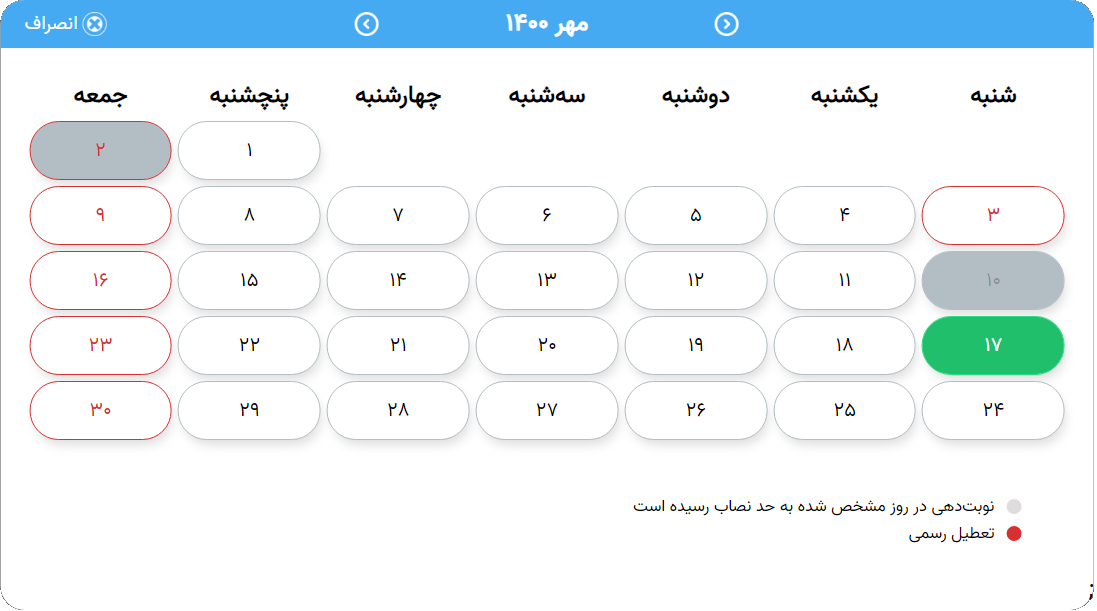
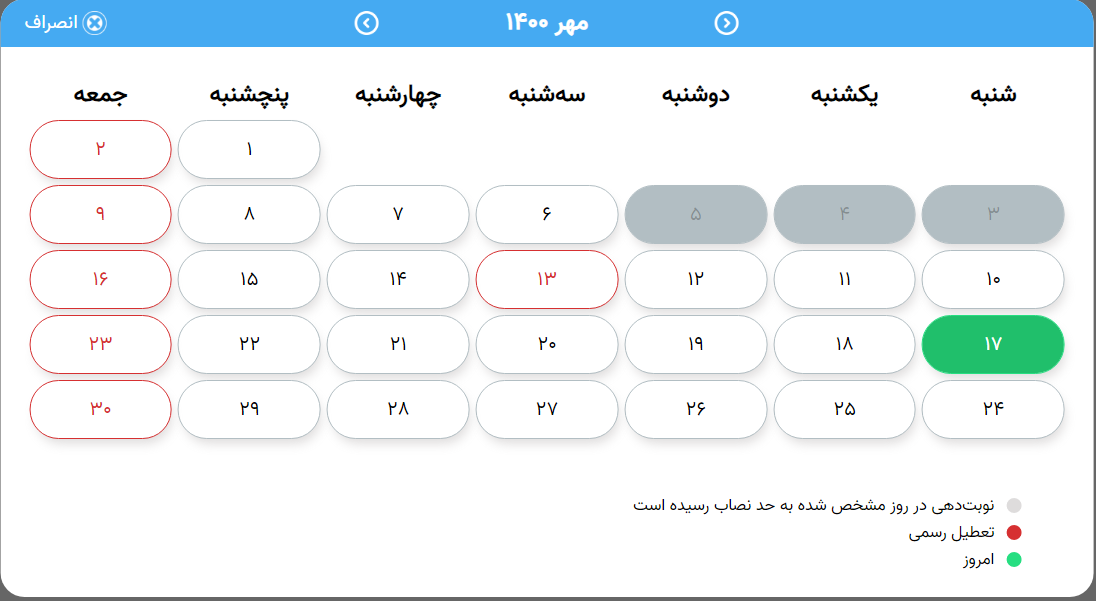
add help text to props

diff --git a/src/index.js b/src/index.js
@@ -9,12 +9,15 @@ export default function SchedulingPicker({
   startTime = { hour: 8, minute: 0 },
   endTime = { hour: 16, minute: 0 },
   visitMinutes = 20,
-  exceptDay = [],
-  exceptTime = [],
+  exceptDays = [],
+  exceptTimes = [],
   onChange,
   show = true,
   setShow,
   holidays = [],
+  redHelp = 'تعطیل رسمی',
+  grayHelp = 'نوبتدهی در روز مشخص شده به حد نصاب رسیده است',
+  greenHelp = 'امروز'
 }) {
   moment.locale('fa')
   moment.loadPersian()
@@ -59,22 +62,17 @@ export default function SchedulingPicker({
       setShowTimePicker(true)
     }
   }, [selectedDate])
-  console.log(selectedDate?.jDate())
-  console.log(now.date?.jDate(), 'now')
 
   function checkExceptTime(time) {
     return (
-      exceptTime.filter(
+      exceptTimes.filter(
         (item) => item.hour === time.hour && item.minute === time.minute
       ).length > 0
     )
   }
 
   return (
-    <div
-      className={`${styles.modal} ${show ? styles.block : styles.hide}`}
-      dir='rtl'
-    >
+    <div className={`${styles.modal} ${show ? styles.block : styles.hide}`}>
       <section className={styles.modalMain}>
         <div
           className={`${styles.page} ${showDatePicker ? styles.show : null}`}
@@ -141,12 +139,25 @@ export default function SchedulingPicker({
                                   m.jDate(now.date.jDate())
                                   setSelectedDate(m)
                                 }}
-                                disabled={exceptDay.includes(day)}
+                                disabled={exceptDays.includes(day)}
                                 className={`${styles.btn} ${styles.btnDate} ${
                                   indexDay === 6 || holidays.includes(day)
                                     ? styles.holiday
                                     : ''
-                                } ${(now.date.jYear()+'-'+now.date.jMonth()+'-'+day) ===(today.jYear()+'-'+today.jMonth()+'-'+today.jDate()) ? styles.btnSuccess :''}`}
+                                } ${
+                                  now.date.jYear() +
+                                    '-' +
+                                    now.date.jMonth() +
+                                    '-' +
+                                    day ===
+                                  today.jYear() +
+                                    '-' +
+                                    today.jMonth() +
+                                    '-' +
+                                    today.jDate()
+                                    ? styles.btnSuccess
+                                    : ''
+                                }`}
                               >
                                 {day}
                               </button>
@@ -163,11 +174,15 @@ export default function SchedulingPicker({
           <div className={styles.helpBox}>
             <div className={styles.helpText}>
               <div className={`${styles.circle} ${styles.circleExcept}`} />
-              <p>نوبتدهی در روز مشخص شده به حد نصاب رسیده است</p>
+              <p>{grayHelp}</p>
             </div>
             <div className={styles.helpText}>
               <div className={`${styles.circle} ${styles.circleHoliday}`} />
-              <p>تعطیل رسمی</p>
+              <p>{redHelp}</p>
+            </div>
+            <div className={styles.helpText}>
+              <div className={`${styles.circle} ${styles.circleToday}`} />
+              <p>{greenHelp}</p>
             </div>
           </div>
         </div>
@@ -235,7 +250,6 @@ export default function SchedulingPicker({
             </div>
           </div>
         </div>
-        ;
       </section>
     </div>
   )

diff --git a/example/src/App.js b/example/src/App.js
@@ -22,10 +22,10 @@ const App = () => {
     <SchedulingPicker show={show}
                       setShow={setShow}
                       onChange={(v)=>setValue(v)}
-                      exceptDay={[3,4,5]}
+                      exceptDays={[3,4,5]}
                       visitMinutes={15}
                       holidays={[13]}
-                      exceptTime={[{hour:8,minute:20}]}
+                      exceptTimes={[{hour:8,minute:20}]}
                       startTime={{hour:9,minute:30}}
                       endTime={{hour:16,minute:30}}
     />

diff --git a/src/styles.module.css b/src/styles.module.css
@@ -170,3 +170,6 @@ body {
 .helpBox .helpText .circleHoliday {
   background-color: #d63031;
 }
+.helpBox .helpText .circleToday {
+  background-color: #26de81;
+}

diff --git a/README.md b/README.md
@@ -26,9 +26,19 @@ function App() {
   const [show,setShow] = useState(true)
   return (
     <div className="App">
-        <SchedulingPicker show={show} setShow={setShow} exceptDay={[2,10]} exceptTime={[{hour:12,minute:50}]} holidays={[3]} startTime={{hour:9,minute:30}} endTime={{hour:16,minute:0}} visitMinutes={10} onChange={(v)=>{
-            console.log(v)
-        }}/>
+      <SchedulingPicker show={show}
+                        setShow={setShow}
+                        onChange={(v)=>setValue(v)}
+                        exceptDays={[3,4,5]}
+                        visitMinutes={15}
+                        holidays={[13]}
+                        exceptTimes={[{hour:8,minute:20}]}
+                        startTime={{hour:9,minute:30}}
+                        endTime={{hour:16,minute:30}}
+                        onChange={(v)=>{
+                          console.log(v)
+                        }}
+      />
     </div>
   );
 }
@@ -39,41 +49,53 @@ export default App;
 
  - **show** : boolean
 
-	 show modal state
-- **setShow** : function
-	 
-	 set show state for close modal in component
-	 
-- **startTime** : object {hour:?,minute:?}
-	 
-	 start time in select time section
-	 
-- **endTime** : object {hour:?,minute:?}
-	
-	 end time in select time section
-	 
-- **visitMinutes** : int
-	 
-	 The interval between times in select time section
-	 
-- **holidays** : array
-	 
-	 holidays	 in month
-	 
-- **exceptDay** : array
-	 
-	 days that are not allowed to choose
-	 
-- **exceptTime** : array
-	 
-	 times that are not allowed to choose
+   show modal state
+ - **setShow** : function
 
-- **onChange** : function (v)
-	 
-	 selected date and time
-   
-   v is [moment-jalaali](https://github.com/jalaali/moment-jalaali) type
-	 
+    set show state for close modal in component
+
+ - **startTime** : object {hour:?,minute:?}
+
+    start time in select time section
+
+ - **endTime** : object {hour:?,minute:?}
+
+    end time in select time section
+
+ - **visitMinutes** : int
+
+    The interval between times in select time section
+
+ - **holidays** : array
+
+    holidays	 in month
+
+ - **exceptDay** : array
+
+    days that are not allowed to choose
+
+ - **exceptTime** : array
+
+    times that are not allowed to choose
+
+ - **redHelp** : text
+
+   help text for holiday
+
+ - **grayHelp** : text
+
+   help text for excepted days
+
+- **greenHelp** : text
+
+  help text for today
+
+ - **onChange** : function (v)
+
+    selected date and time
+
+    v is [moment-jalaali](https://github.com/jalaali/moment-jalaali) type
+
 ## License
 
 MIT © [amirGhotb](https://github.com/amirGhotb)
